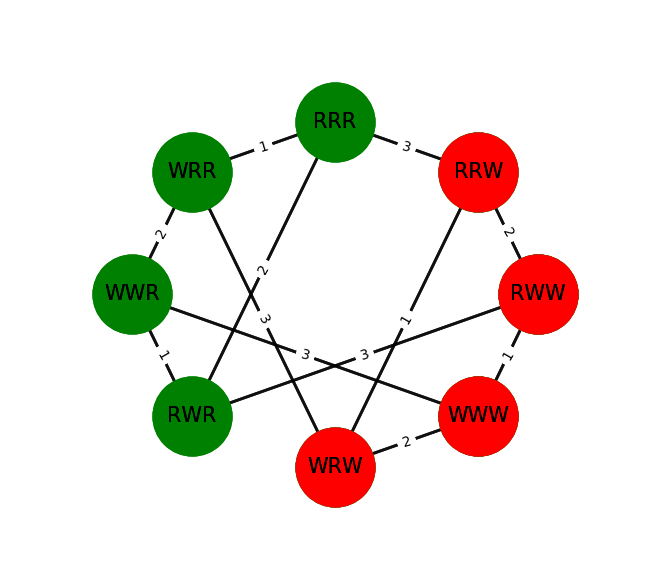
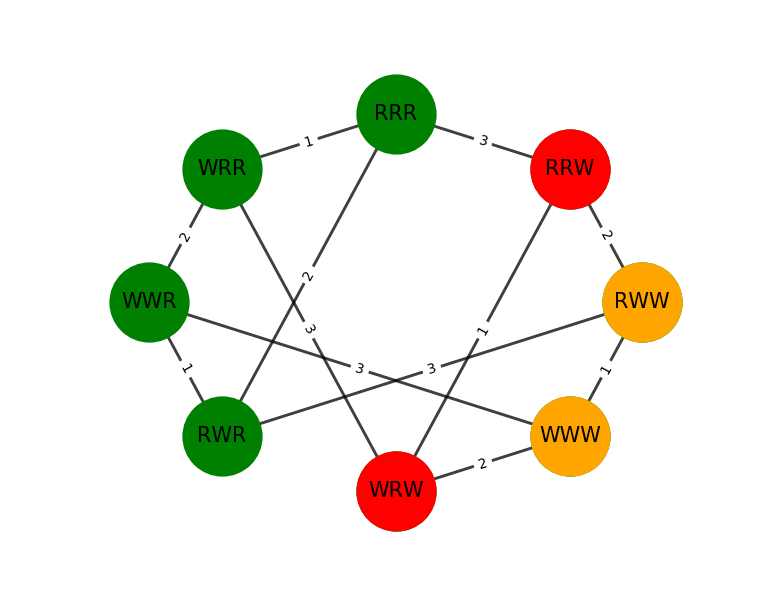
plot.py: plot Kripke structure, DONE

Changed region(s): [[0.1223, 0.1231, 0.8869, 0.8615]]

diff --git a/scripts/plot.py b/scripts/plot.py
@@ -6,7 +6,7 @@ import src.model as Model
 
 
 # Routine to plot Kripke Frame with relations for all agents
-def draw_graph(ks, labels, nodes_not_follow_formula):
+def draw_graph(ks, labels, nodes_one, color_one, nodes_two, color_two):
     nodes = list(world.name for world in ks.worlds)
     G = nx.Graph()
 
@@ -23,7 +23,9 @@ def draw_graph(ks, labels, nodes_not_follow_formula):
 
     pos = nx.shell_layout(G)
     nx.draw_networkx_nodes(G, pos, nodelist=nodes, node_size=3000, node_color="green", linewidths=3.0)
-    nx.draw_networkx_nodes(G, pos, nodelist=nodes_not_follow_formula, node_size=3000, node_color="red",
+    nx.draw_networkx_nodes(G, pos, nodelist=nodes_one, node_size=3000, node_color=color_one,
+                           linewidths=3.0)
+    nx.draw_networkx_nodes(G, pos, nodelist=nodes_two, node_size=3000, node_color=color_two,
                            linewidths=3.0)
     nx.draw_networkx_edges(G, pos, edgelist=edge_list, width=2, alpha=0.5, edge_color='black')
 
@@ -37,9 +39,10 @@ def draw_graph(ks, labels, nodes_not_follow_formula):
 wise_men_model = WiseMenWithHat()
 ks = wise_men_model.ks
 
-draw_graph(ks, ["1", "2", "3"],
-           Model.nodes_not_follow_formula(wise_men_model.implicit_knowledge_one, wise_men_model.ks))
-draw_graph(ks, ["1", "2", "3"],
-           Model.nodes_not_follow_formula(wise_men_model.announcement_three, wise_men_model.ks))
+nodes = Model.nodes_not_follow_formula(wise_men_model.implicit_knowledge_one, wise_men_model.ks)
+nodes_two = Model.nodes_not_follow_formula(wise_men_model.announcement_three, wise_men_model.ks)
+for x in nodes:
+    nodes_two.remove(x)
 
+draw_graph(ks, ["1", "2", "3"], nodes, "orange", nodes_two, "red")
 plt.show()
